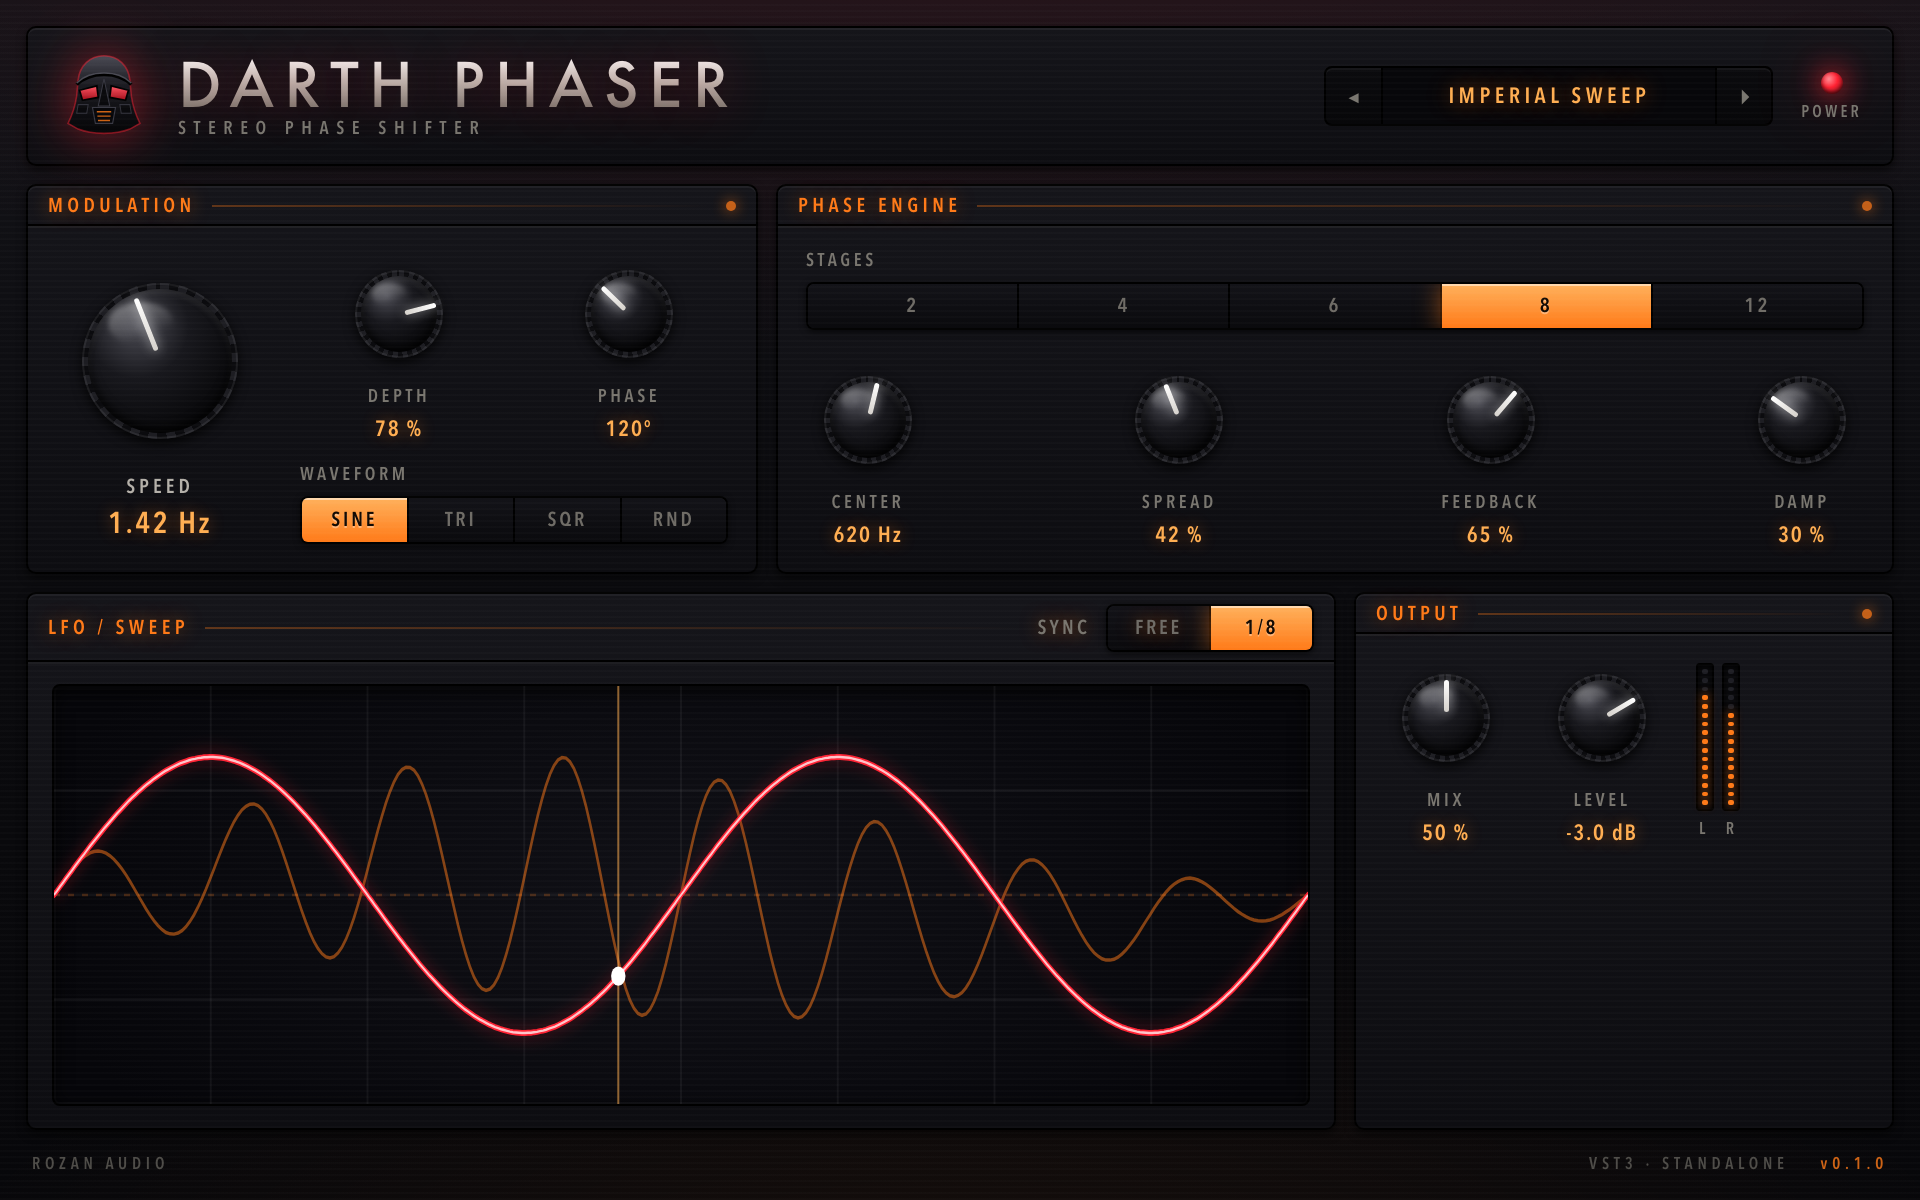
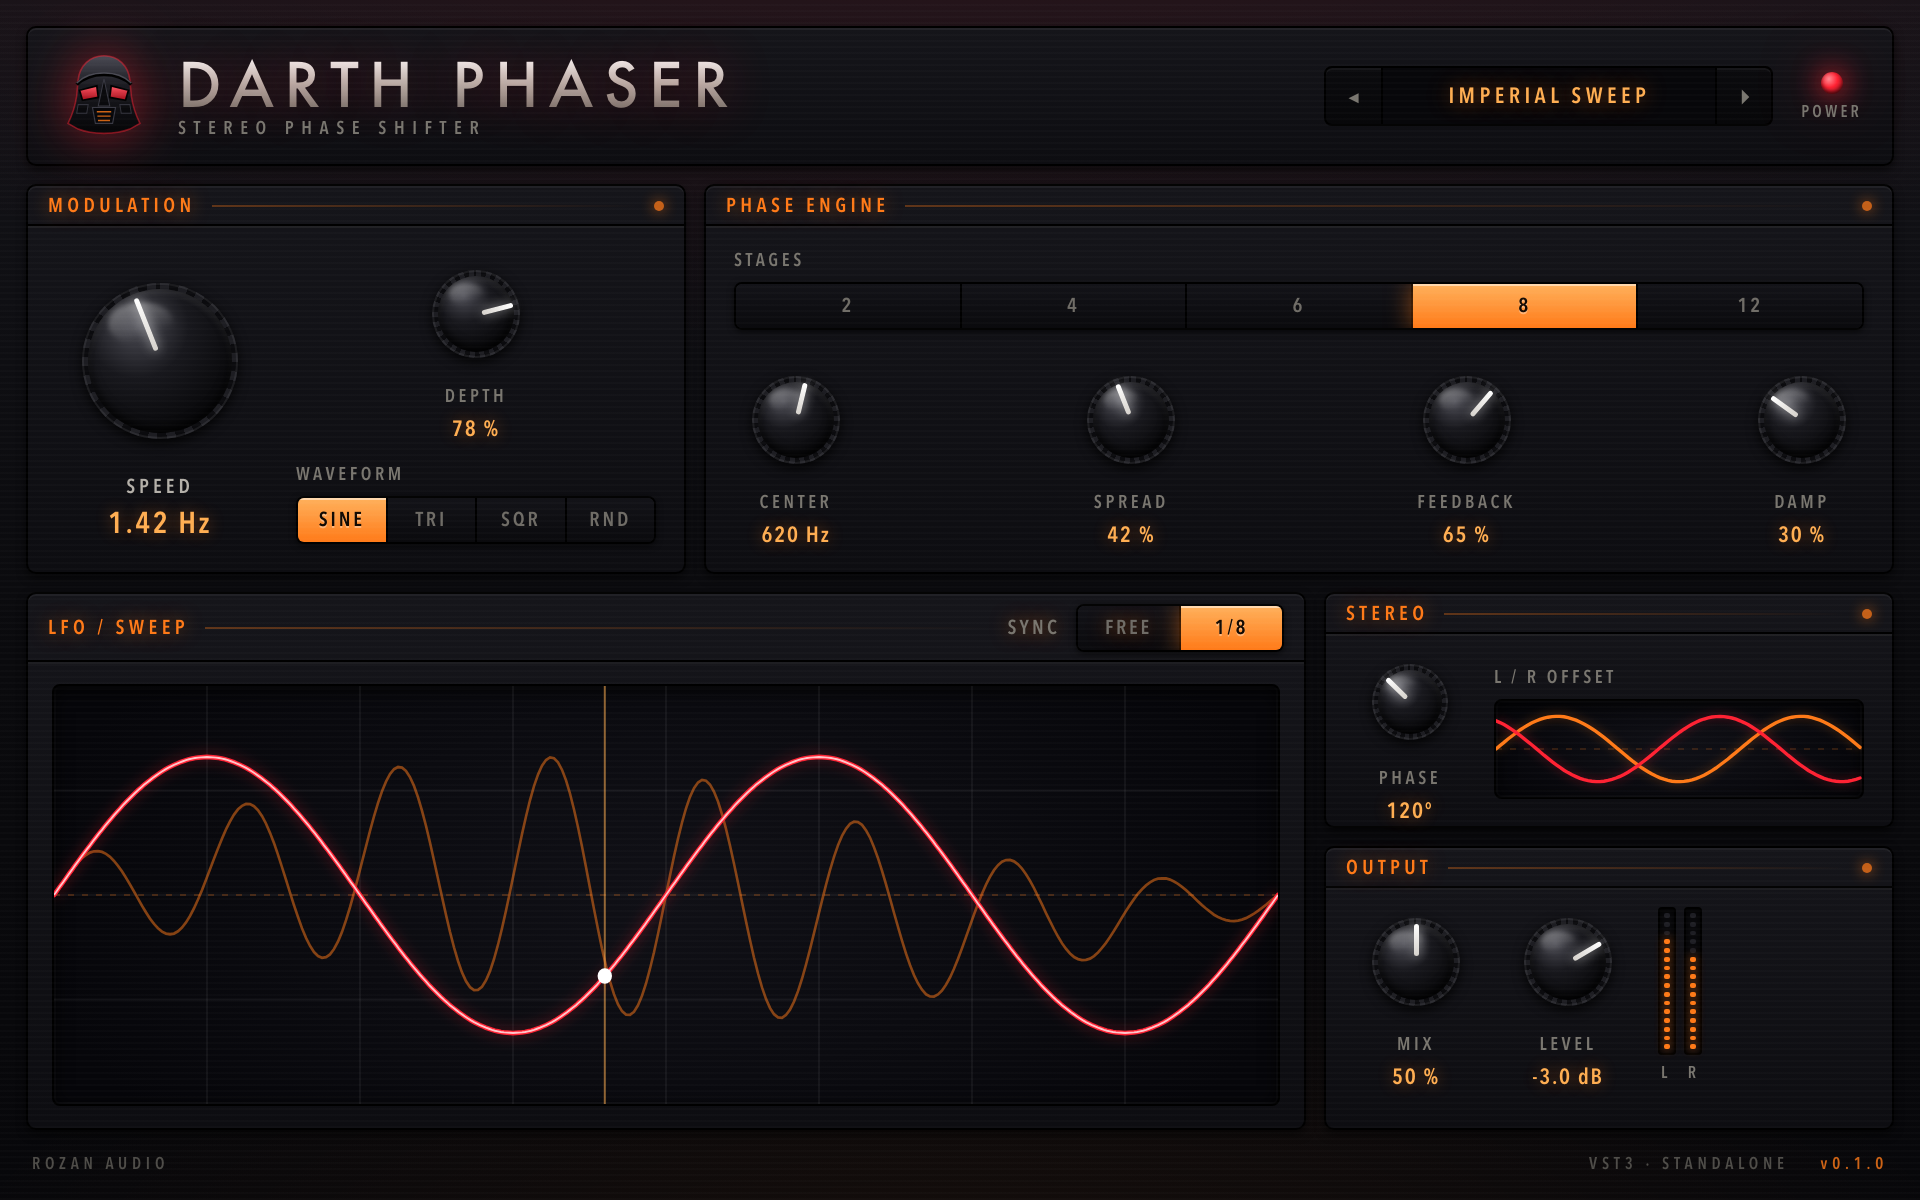
Add a STEREO section to the layout mockup
Stereo Phase was buried among the modulation controls; give it a section of
its own alongside an L/R offset display showing the two LFO phases.

- New STEREO panel stacked above OUTPUT in the right column of the lower row
- MODULATION narrows to 330px now that it holds only Speed, Depth and
  Waveform; PHASE ENGINE takes the freed width
- Note in the README that the mockup is now ahead of the editor here

diff --git a/design/darth-phaser-layout.html b/design/darth-phaser-layout.html
@@ -154,22 +154,19 @@ body{width:960px;height:600px;background:var(--bg);overflow:hidden;
 
   <!-- ROW A -->
   <div class="row">
-    <div class="pan" style="width:366px">
+    <div class="pan" style="width:330px">
       <div class="hd"><b>MODULATION</b><i></i><s></s></div>
-      <div class="body" style="display:flex;gap:18px;align-items:center">
+      <div class="body" style="display:flex;gap:16px;align-items:center">
         <div class="k hero" style="--v:.42">
           <div class="dial"><div class="ring"></div><div class="fill"></div>
             <div class="cap"><div class="face"></div><div class="rot"><div class="ptr"></div></div></div></div>
           <div class="kl">SPEED</div><div class="kv">1.42 Hz</div>
         </div>
         <div style="flex:1">
-          <div class="ks" style="justify-content:space-around;margin-bottom:13px">
+          <div class="ks" style="justify-content:center;margin-bottom:13px">
             <div class="k" style="--v:.78"><div class="dial"><div class="ring"></div><div class="fill"></div>
               <div class="cap"><div class="face"></div><div class="rot"><div class="ptr"></div></div></div></div>
               <div class="kl">DEPTH</div><div class="kv">78 %</div></div>
-            <div class="k" style="--v:.33;--acc:var(--saber)"><div class="dial"><div class="ring"></div><div class="fill"></div>
-              <div class="cap"><div class="face"></div><div class="rot"><div class="ptr"></div></div></div></div>
-              <div class="kl">PHASE</div><div class="kv">120&deg;</div></div>
           </div>
           <span class="cap2">WAVEFORM</span>
           <div class="seg"><b class="on">SINE</b><b>TRI</b><b>SQR</b><b>RND</b></div>
@@ -211,20 +208,39 @@ body{width:960px;height:600px;background:var(--bg);overflow:hidden;
       </div>
     </div>
 
-    <div class="pan" style="width:270px">
-      <div class="hd"><b>OUTPUT</b><i></i><s></s></div>
-      <div class="body" style="display:flex;gap:16px;align-items:center;padding:11px 14px">
-        <div class="k" style="--v:.5"><div class="dial"><div class="ring"></div><div class="fill"></div>
-          <div class="cap"><div class="face"></div><div class="rot"><div class="ptr"></div></div></div></div>
-          <div class="kl">MIX</div><div class="kv">50 %</div></div>
-        <div class="k" style="--v:.72"><div class="dial"><div class="ring"></div><div class="fill"></div>
-          <div class="cap"><div class="face"></div><div class="rot"><div class="ptr"></div></div></div></div>
-          <div class="kl">LEVEL</div><div class="kv">-3.0 dB</div></div>
-        <div>
-          <div class="met" id="met"></div>
-          <div class="mlab">L &nbsp; R</div>
+    <div style="width:285px;display:flex;flex-direction:column;gap:9px">
+
+      <div class="pan" style="height:118px">
+        <div class="hd"><b>STEREO</b><i></i><s></s></div>
+        <div class="body" style="display:flex;gap:14px;align-items:center;padding:6px 14px">
+          <div class="k" style="--v:.33;--acc:var(--saber);--d:56px">
+            <div class="dial"><div class="ring"></div><div class="fill"></div>
+              <div class="cap"><div class="face"></div><div class="rot"><div class="ptr"></div></div></div></div>
+            <div class="kl">PHASE</div><div class="kv">120&deg;</div></div>
+          <div style="flex:1">
+            <span class="cap2">L / R OFFSET</span>
+            <div class="scope" style="height:50px">
+              <svg id="sv" width="100%" height="100%" preserveAspectRatio="none"></svg></div>
+          </div>
         </div>
       </div>
+
+      <div class="pan" style="flex:1">
+        <div class="hd"><b>OUTPUT</b><i></i><s></s></div>
+        <div class="body" style="display:flex;gap:14px;align-items:center;padding:6px 14px">
+          <div class="k" style="--v:.5"><div class="dial"><div class="ring"></div><div class="fill"></div>
+            <div class="cap"><div class="face"></div><div class="rot"><div class="ptr"></div></div></div></div>
+            <div class="kl">MIX</div><div class="kv">50 %</div></div>
+          <div class="k" style="--v:.72"><div class="dial"><div class="ring"></div><div class="fill"></div>
+            <div class="cap"><div class="face"></div><div class="rot"><div class="ptr"></div></div></div></div>
+            <div class="kl">LEVEL</div><div class="kv">-3.0 dB</div></div>
+          <div>
+            <div class="met" id="met"></div>
+            <div class="mlab">L &nbsp; R</div>
+          </div>
+        </div>
+      </div>
+
     </div>
   </div>
 
@@ -269,6 +285,33 @@ sc.appendChild(el('path', {d: s, fill: 'none', stroke: '#ffd7da', 'stroke-width'
 const px = W * .45;
 sc.appendChild(el('line', {x1: px, y1: 0, x2: px, y2: H, stroke: '#ffae52', 'stroke-opacity': .55}));
 sc.appendChild(el('circle', {cx: px, cy: H/2 - Math.sin(.45 * Math.PI * 4) * H * .33, r: 3.6, fill: '#fff'}));
+
+// stereo L/R offset: same LFO, two phases
+const sv = document.getElementById('sv');
+const SW = sv.clientWidth, SH = sv.clientHeight;
+sv.setAttribute('viewBox', '0 0 ' + SW + ' ' + SH);
+
+sv.appendChild(el('line', {x1: 0, y1: SH/2, x2: SW, y2: SH/2,
+                          stroke: '#ff7a18', 'stroke-opacity': .16, 'stroke-dasharray': '3 4'}));
+
+function offsetCurve(shift) {
+  let d = '';
+  for (let x = 0; x <= SW; x += 2) {
+    const t = x / SW;
+    const y = SH/2 - Math.sin(2 * Math.PI * (t * 1.5 + shift)) * SH * 0.34;
+    d += (x ? 'L' : 'M') + x + ' ' + y.toFixed(1);
+  }
+  return d;
+}
+
+const stereoOffset = 120 / 360;   // the PHASE knob, in cycles
+[['#ff7a18', 0], ['#ff2233', stereoOffset]].forEach(function (pair) {
+  const d = offsetCurve(pair[1]);
+  sv.appendChild(el('path', {d: d, fill: 'none', stroke: pair[0], 'stroke-width': 4,
+                             'stroke-opacity': .16, filter: 'blur(2px)'}));
+  sv.appendChild(el('path', {d: d, fill: 'none', stroke: pair[0], 'stroke-width': 1.7,
+                             'stroke-linecap': 'round'}));
+});
 
 // meter segments
 const met = document.getElementById('met');

diff --git a/README.md b/README.md
@@ -129,6 +129,11 @@ Theme: near-black chassis with crimson rim light (Darth Vader), MXR Phase 90 ora
 primary accent with knurled black knobs and white pointers, laid out in the dense multi-section
 style of HY-Phaser. Panel size is 960x600.
 
+The mockup is currently **ahead of the editor** in one place: it has a dedicated STEREO
+section holding the Stereo Phase knob and an L/R offset display, where `PluginEditor.cpp`
+still keeps that knob inside MODULATION. Porting it means moving one knob and splitting the
+right column of the lower row.
+
 ## Editor setup (clangd / Neovim)
 
 `CMAKE_EXPORT_COMPILE_COMMANDS` is on, so configuring the project writes
